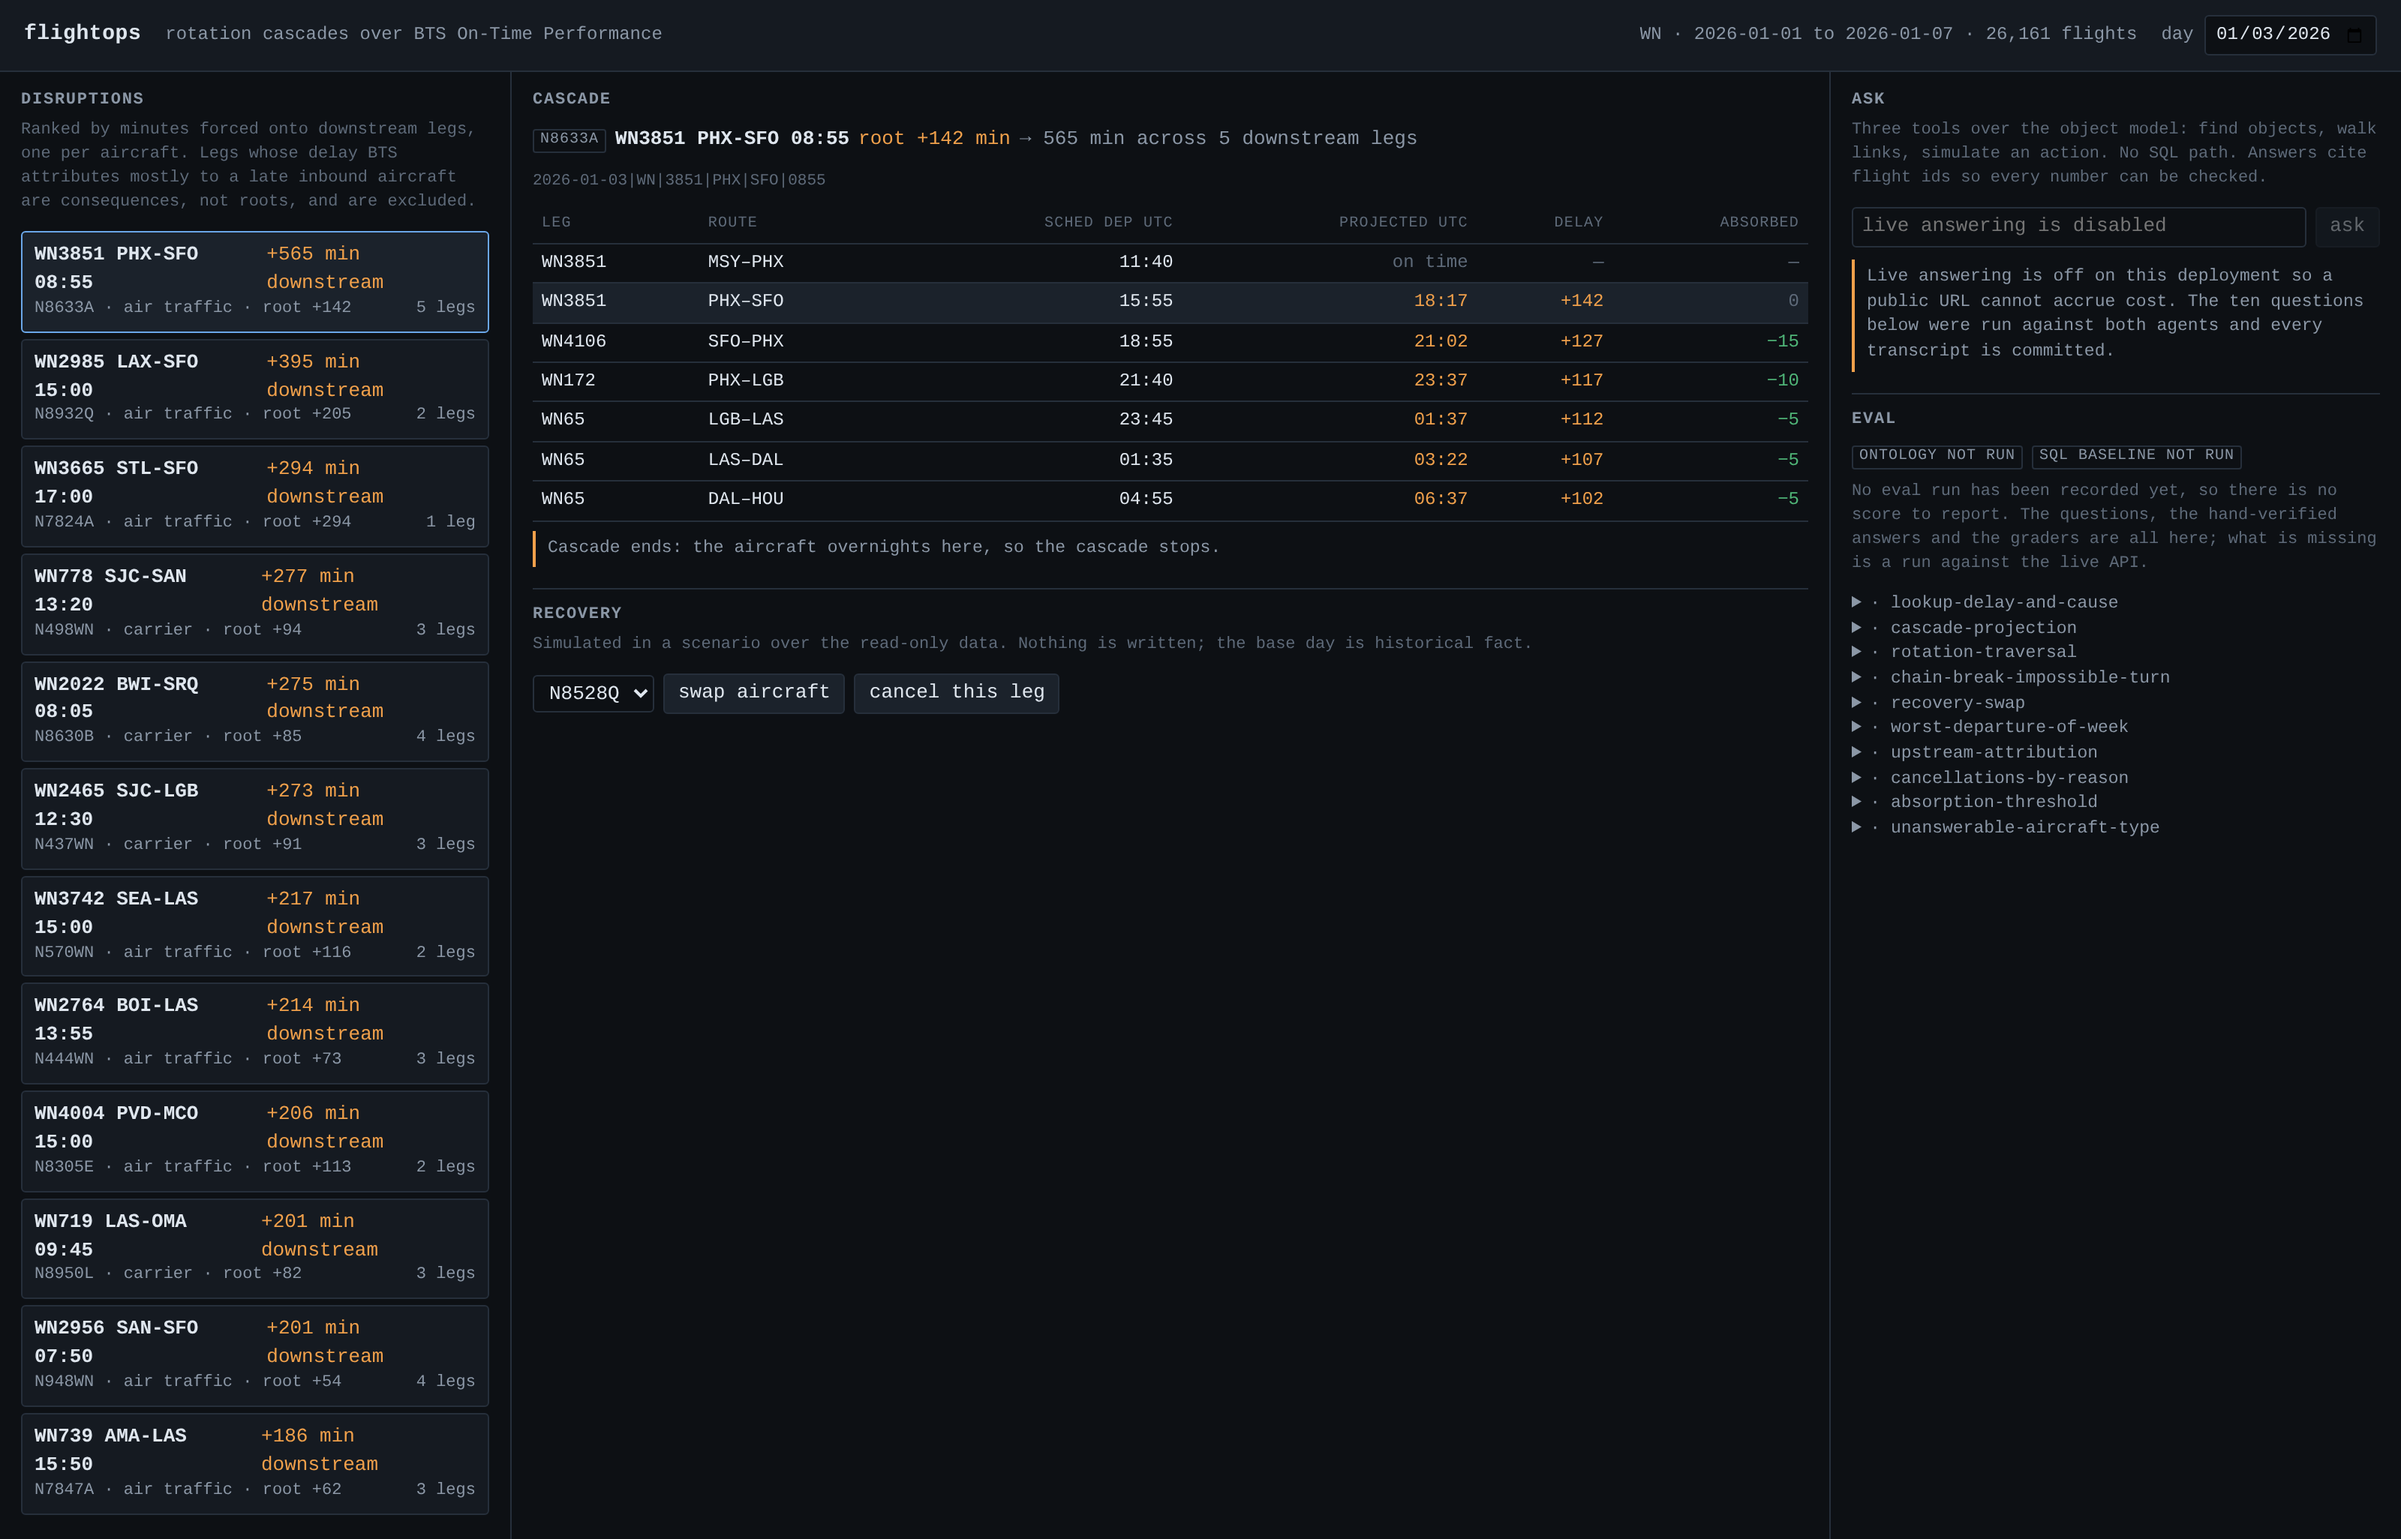
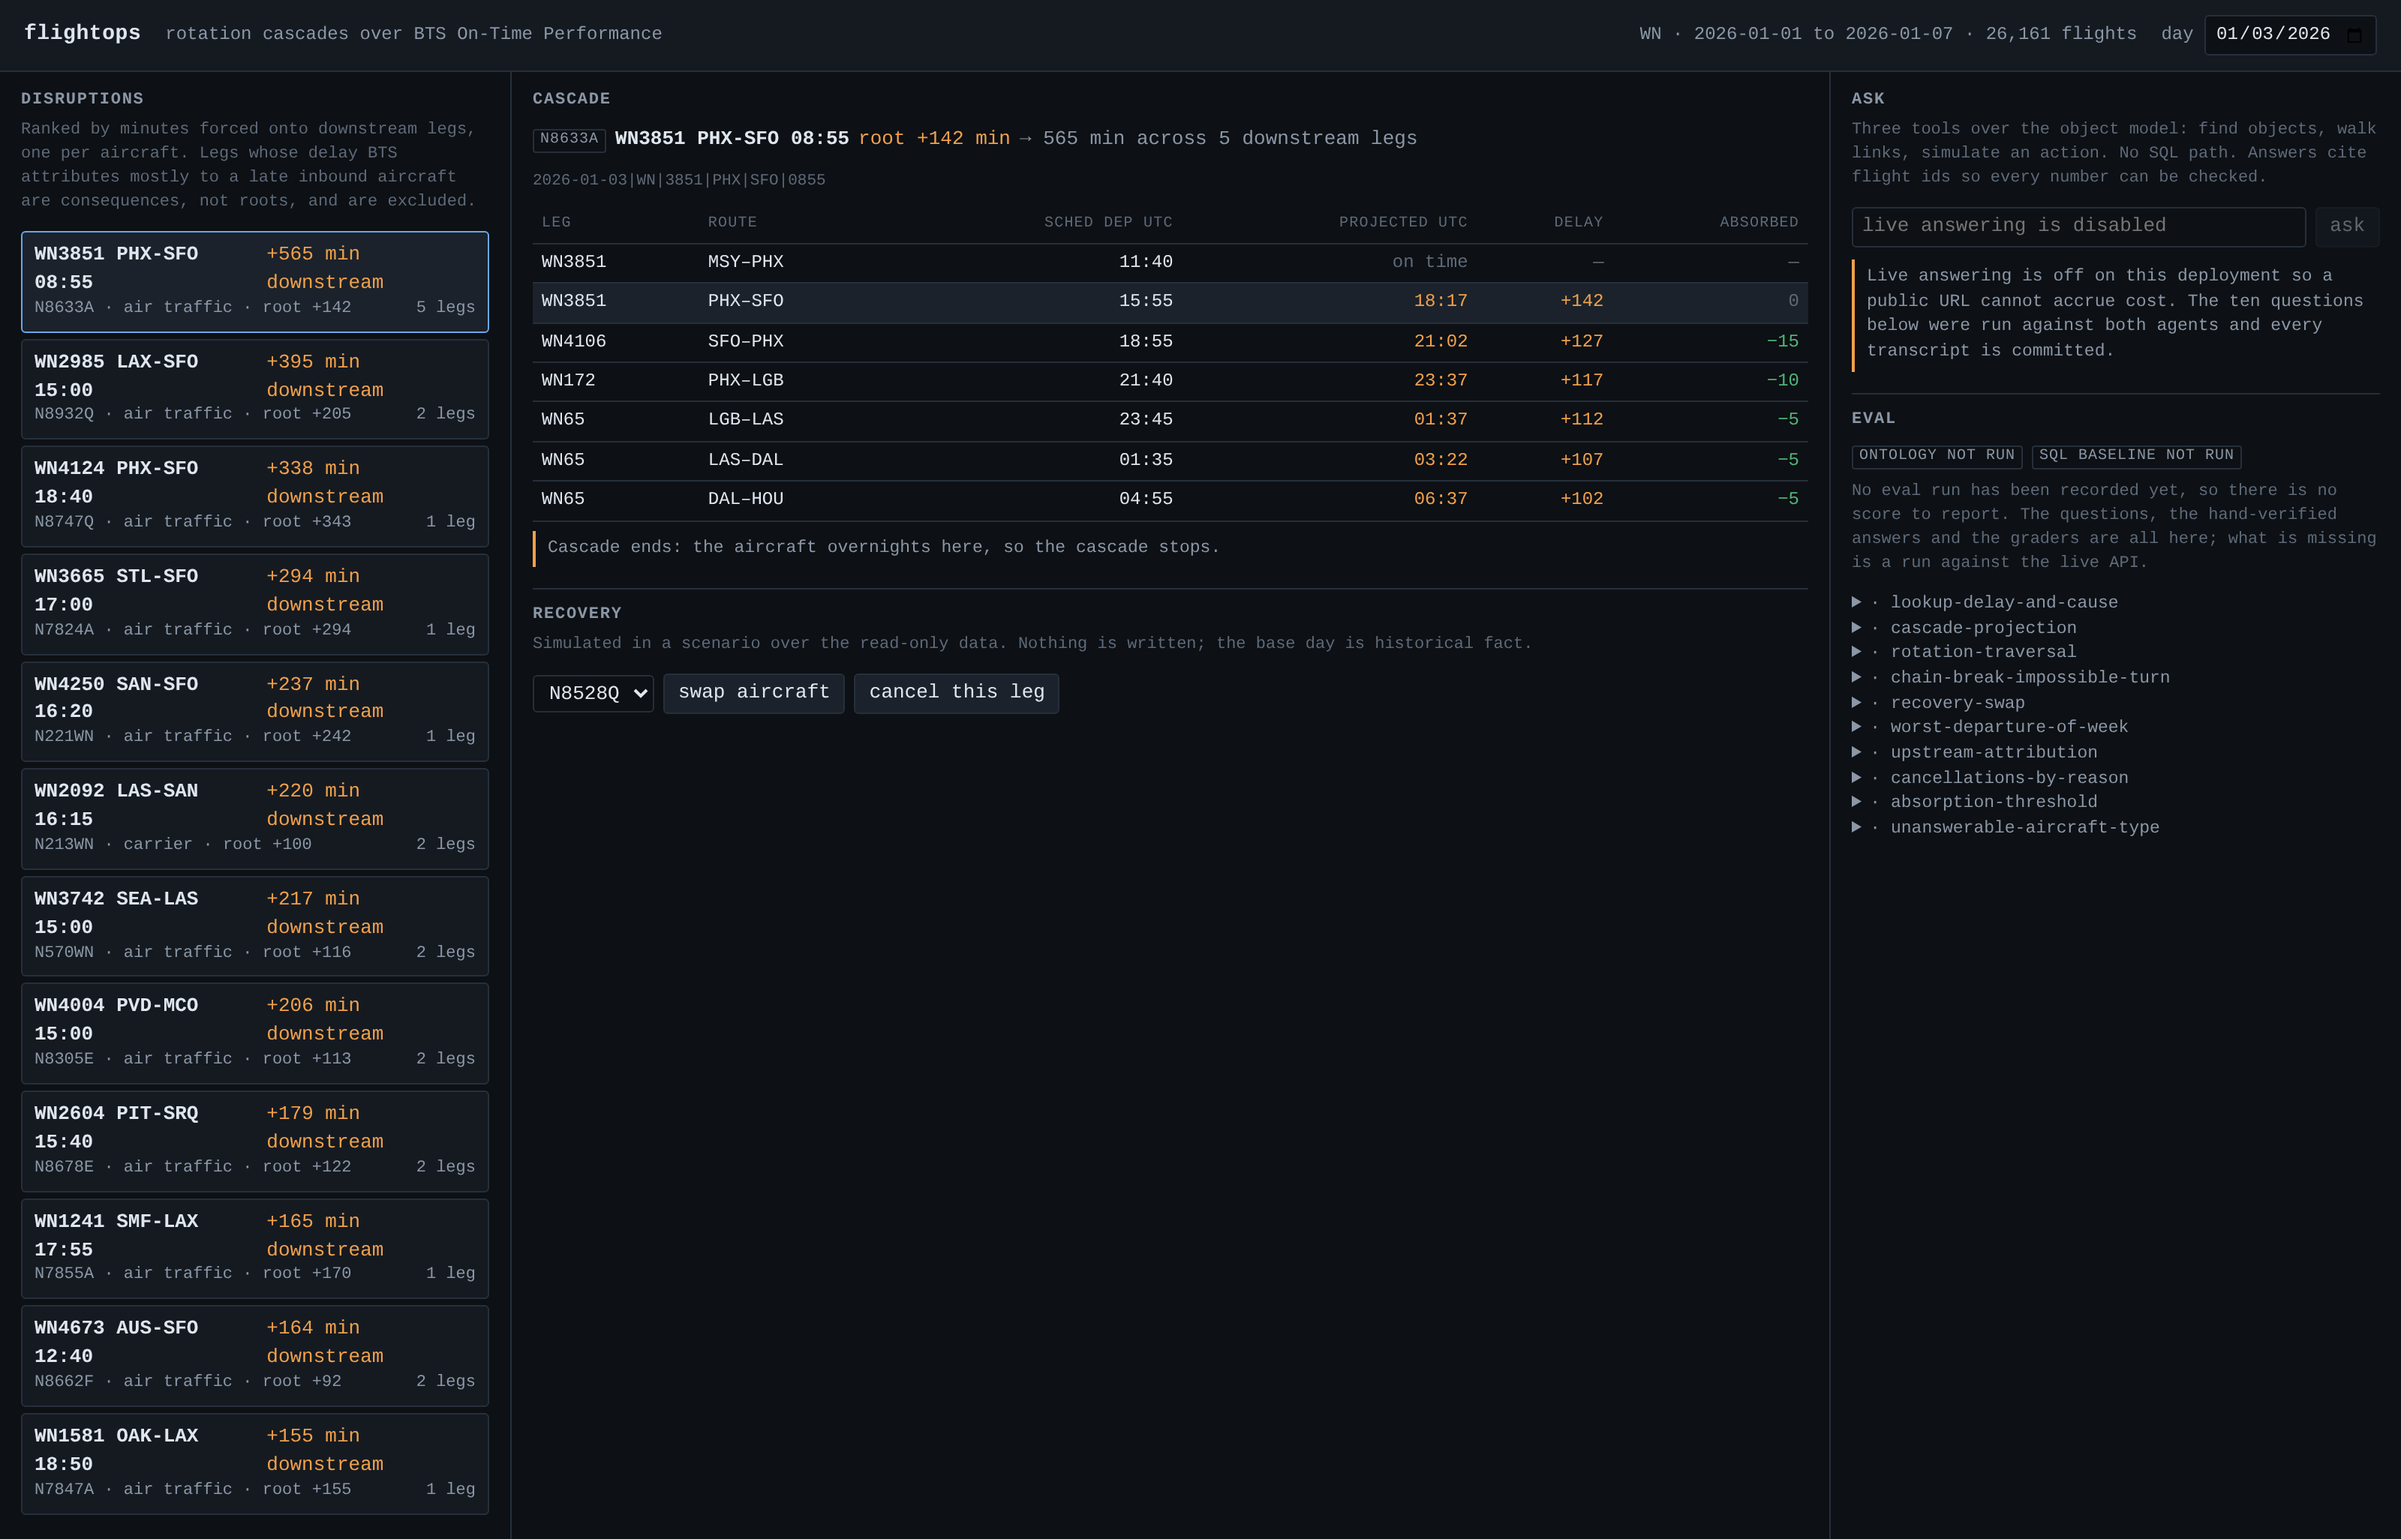
fix: the daily ranking was only considering the first half of the day
find_flights orders by scheduled departure, so capping the candidate fetch at
320 silently dropped the evening. On 2026-01-03 that hid 104 legs delayed 100
minutes or more, all after 23:10 UTC, and the ranking still looked plausible
because that day's worst root departs in the morning -- the same silent-
truncation failure the tool layer is built to refuse.

Fetches the whole day now. Regression test asserts a late-evening root ranks.
Screenshots and the two README/TRAINING examples updated to the corrected list.

diff --git a/tests/test_api.py b/tests/test_api.py
@@ -110,6 +110,20 @@ def test_disruptions_rank_by_downstream_minutes_not_by_delay(client: TestClient)
     assert all(event["cause"] != "late_aircraft" for event in events)
 
 
+def test_the_ranking_reaches_the_end_of_the_day(client: TestClient) -> None:
+    """Regression: the candidate fetch used to cut off mid-evening.
+
+    `find_flights` orders by scheduled departure, so a limit below a full day silently drops the
+    late roots. On 2026-01-03 that hid 104 legs delayed 100 minutes or more, all after 23:10
+    UTC, and the ranking still looked right because that day's worst root departs in the
+    morning. WN4124 PHX-SFO leaves at 01:40 UTC on the 4th and belongs near the top.
+    """
+    events = client.get("/api/disruptions", params={"date": "2026-01-03", "limit": 10}).json()
+    roots = [event["root_flight_id"] for event in events]
+    assert "2026-01-03|WN|4124|PHX|SFO|1840" in roots
+    assert max(event["affected"][-1]["projected_dep_utc"] for event in events) > "2026-01-04"
+
+
 def test_a_date_outside_the_loaded_window_is_rejected_with_the_window(client: TestClient) -> None:
     """The cache is keyed on the date, so an unbounded date is an unbounded number of keys."""
     response = client.get("/api/disruptions", params={"date": "1999-01-01"})

diff --git a/src/flightops/propagation/events.py b/src/flightops/propagation/events.py
@@ -28,6 +28,16 @@ MAX_CANDIDATES = 80
 """Ceiling on chains walked per request. Each projection is a handful of indexed lookups, and
 the ranking is stable well before eighty because the tail of the delay distribution is thin."""
 
+CANDIDATE_FETCH_LIMIT = 6000
+"""Every qualifying leg on the day, not a slice of them.
+
+`find_flights` orders by scheduled departure, so any limit below a full day silently drops the
+evening. That is not a smaller answer, it is a wrong one: fetching 320 candidates on 2026-01-03
+left out 104 legs delayed by 100 minutes or more, all of them after 23:10 UTC, and the ranking
+still looked plausible because the worst root of that day happened to depart in the morning. The
+bound that matters is the day, and a day is at most a few thousand delayed legs.
+"""
+
 
 def rank_disruptions(
     store: ObjectStore,
@@ -45,7 +55,7 @@ def rank_disruptions(
     candidates = store.find_flights(
         flight_date=flight_date,
         min_dep_delay=min_delay_minutes,
-        limit=MAX_CANDIDATES * 4,
+        limit=CANDIDATE_FETCH_LIMIT,
     )
     if not candidates:
         return []

diff --git a/TRAINING.md b/TRAINING.md
@@ -29,9 +29,9 @@ how many minutes and legs it cost downline.
 > 367, 362 and 324 minutes down — and not one of them is on the list. Three of them were late
 > because their own inbound aircraft was late, so they are somebody else's cascade, not a new
 > one. The fourth, the 422, has a rotation the record cannot follow past that leg, so the tool
-> says it does not know rather than guessing. Top of the list instead is a **142**-minute delay that
-> cost 565 minutes across five legs, and eleventh is a **54**-minute delay that cost 201 across
-> four. Sorted by lateness, you would have worked the wrong aeroplane.
+> says it does not know rather than guessing. Top of the list instead is a **142**-minute delay
+> that cost 565 minutes across five legs — two rows above a **343**-minute delay that cost 338
+> across one. Sorted by lateness, you would have worked the wrong aeroplane.
 
 ## Task 2 — See where it lands, and what gets absorbed (3 minutes)
 

diff --git a/README.md b/README.md
@@ -54,8 +54,8 @@ downstream, the valuable thing is not a cascade visualiser — it is the ranking
 which delays are in the other half. On 2026-01-03 the four latest departures of the day (422,
 367, 362 and 324 minutes) are all absent from that ranking — three because their own delay was
 inherited from a late inbound, and the 422 because its rotation record cannot be followed past
-that leg — while the top row is a 142-minute delay that cost 565 downstream minutes and eleventh is a
-54-minute delay that cost 201.
+that leg — while the top row is a 142-minute delay that cost 565 downstream minutes across five
+legs, two rows above a 343-minute delay that cost 338 across one.
 
 **Propagation, checked against the data's own answer.** BTS records `LateAircraftDelay`: the
 carrier's own attribution of how much of a leg's delay came from its inbound aircraft. It is
